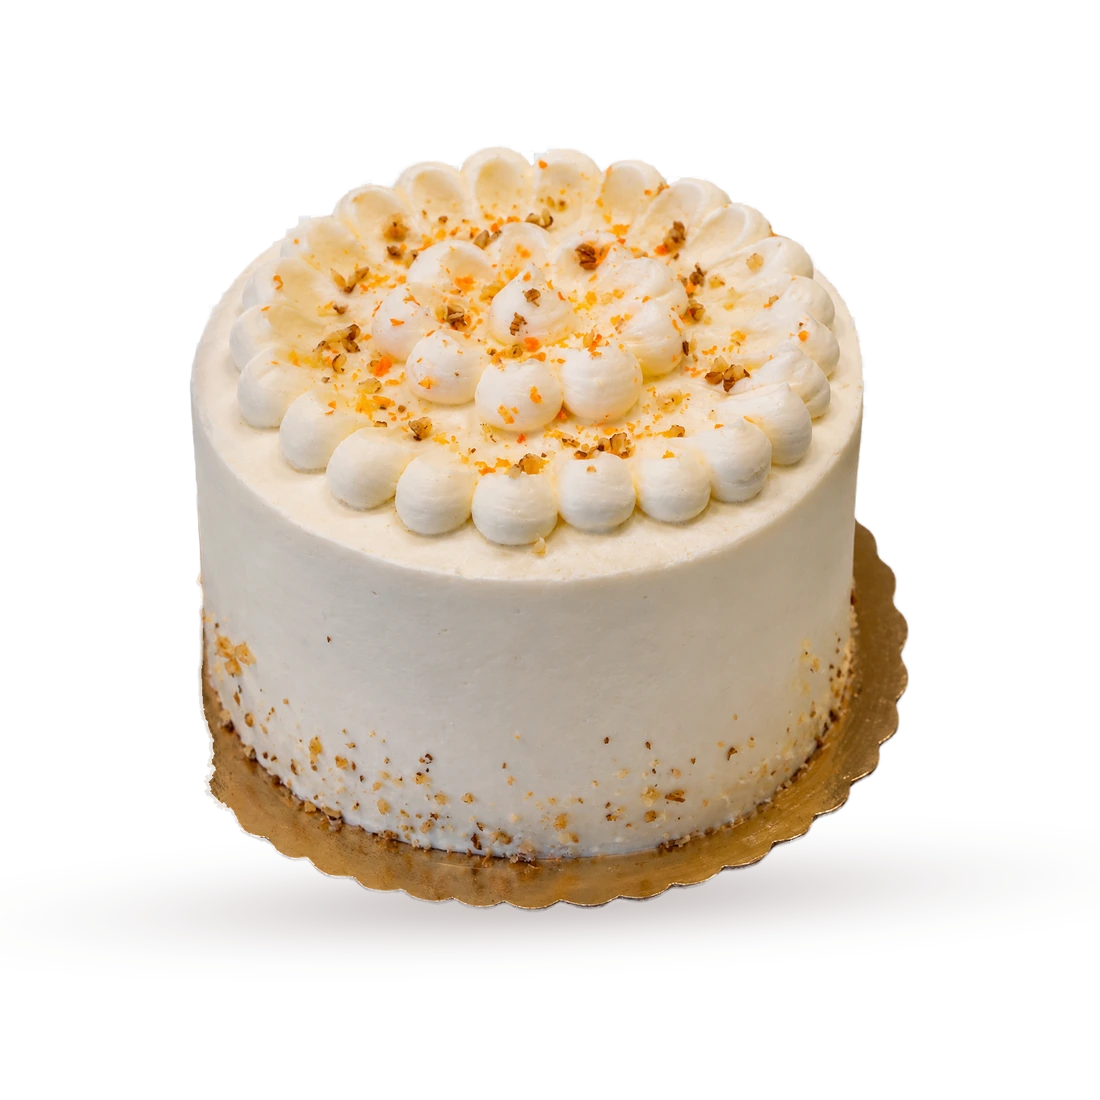
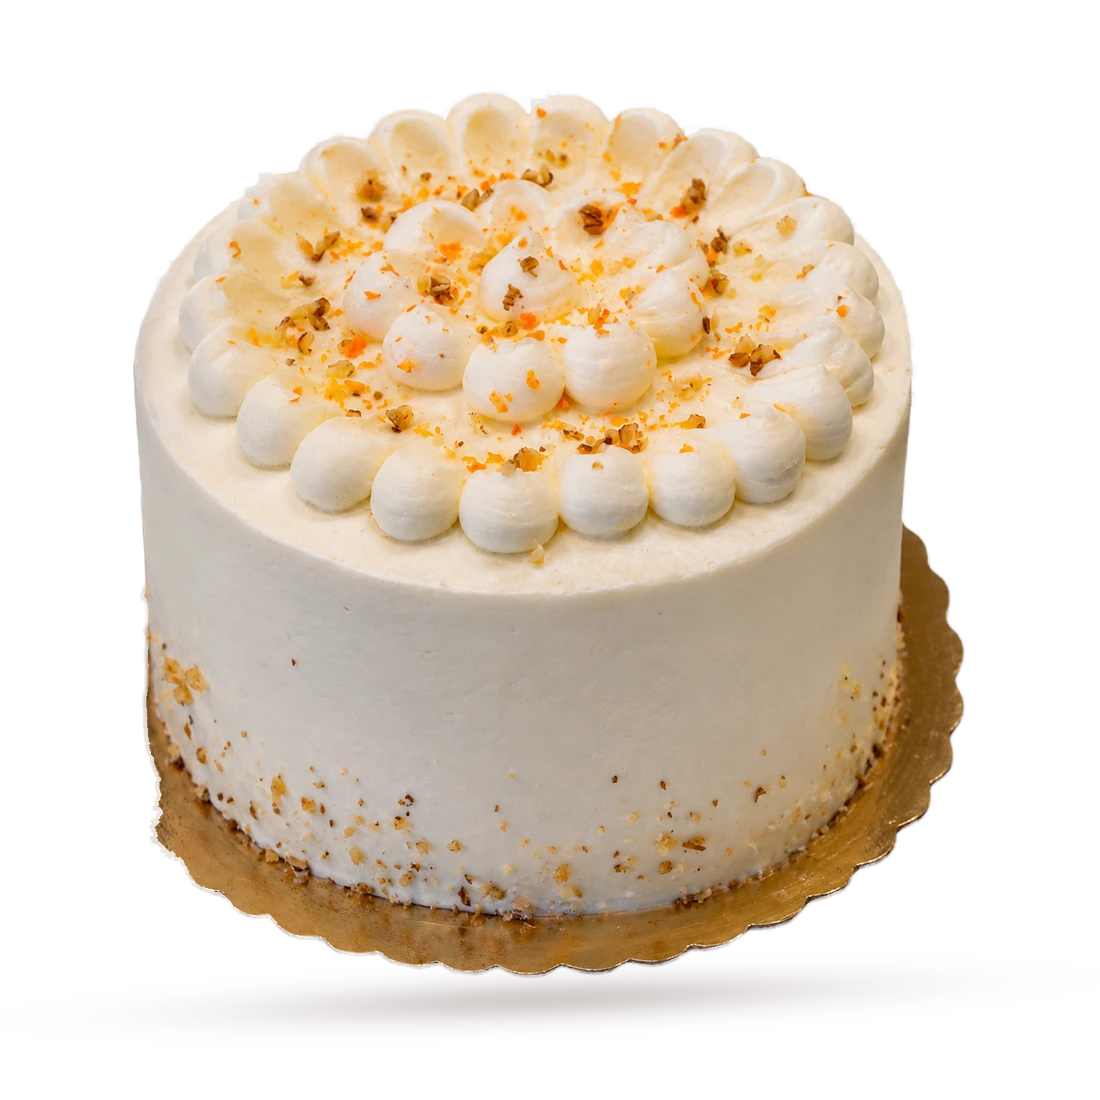
Pasteles: tamaño y posición unificados; sombra de cheesecakes más pequeña y separada

diff --git a/index.html b/index.html
@@ -365,7 +365,7 @@ const PHOTOS={choc_strawberries:1,carrot_cake:2,oreo_mousse:2,vanilla_raspberry:
 P.forEach(p => { if (SEASONAL[p.id]) p.seasonal = true; if (PHOTOS[p.id]){ p.photo = true; p.views = PHOTOS[p.id]; } });
 
 
-const BUILD = '202611091711';
+const BUILD = '202611091721';
 let lang = 'es', cat = 'cupcakes', tag = null, current = -1, view = 'out', list = [];
 try { const s = JSON.parse(localStorage.getItem('ytb-cat') || '{}'); if (s.lang) lang = s.lang; } catch(e) {}
 const $ = id => document.getElementById(id);
